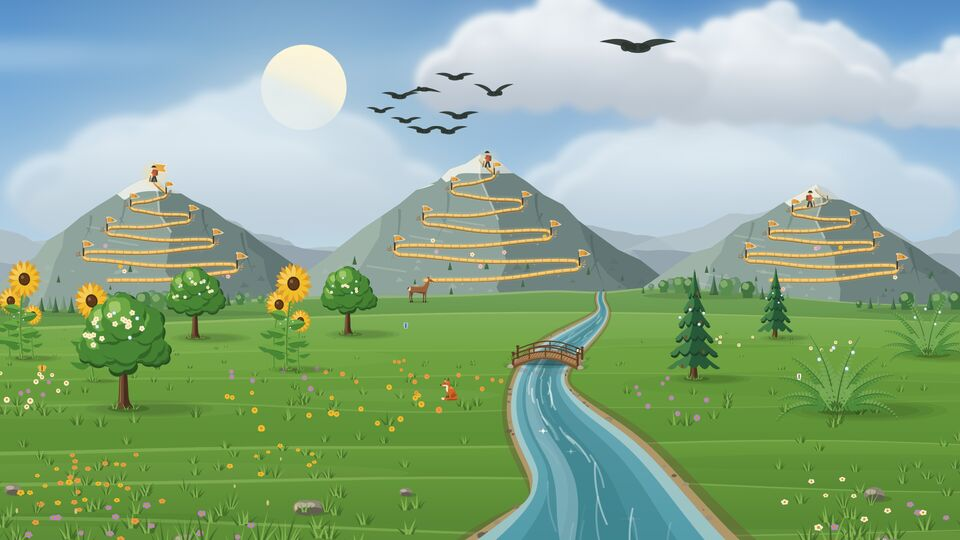
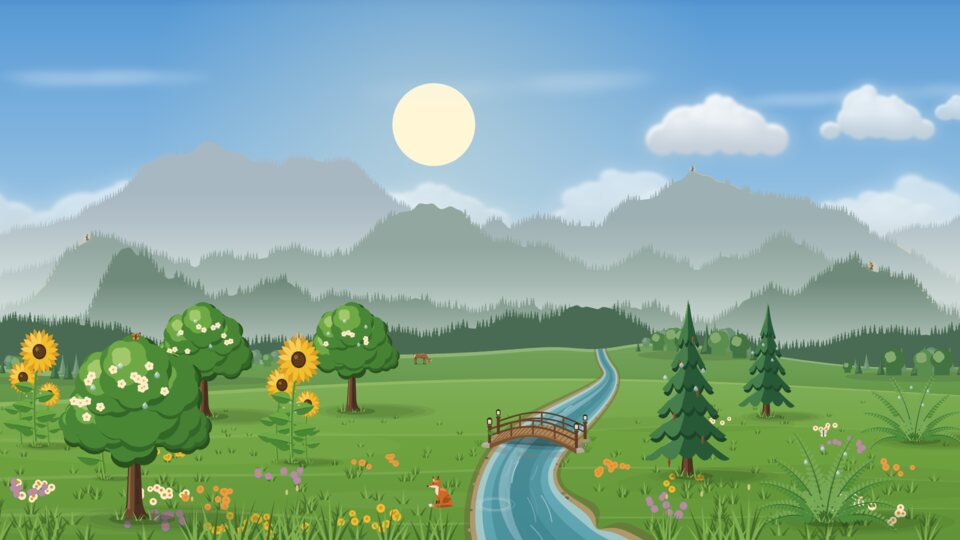
Show Grove's ridge mountains in the valley picture

diff --git a/grove/guide/index.html b/grove/guide/index.html
@@ -312,7 +312,7 @@
        srcset="../../images/valley-960.jpg 960w, ../../images/valley.jpg 1920w"
        sizes="(min-width: 42rem) 40rem, 100vw"
        width="960" height="540"
-       alt="A valley drawn by Grove: three mountains with lit trails, flowering trees and sunflowers in a green meadow, and a river under a wooden bridge.">
+       alt="A valley drawn by Grove: misty forested ridges with climbers on their trails, flowering trees, sunflowers and pines in a meadow of wildflowers, and a river under a wooden bridge.">
 
 <p>Grove is a habit tracker for Android. Each habit you build is a plant by a river, and each habit you let go of is a trail up a mountain. These pages explain what you see in the app and why.</p>
 <p>To see it in motion, watch <a href="https://www.youtube.com/watch?v=k_VwG3wD_qk">Grove in two minutes</a> on YouTube.</p>

diff --git a/index.html b/index.html
@@ -217,7 +217,7 @@
        srcset="images/valley-960.jpg 960w, images/valley.jpg 1920w"
        sizes="100vw"
        width="1920" height="1080"
-       alt="A valley drawn by Grove: three mountains with lit trails, flowering trees and sunflowers in a green meadow, and a river under a wooden bridge.">
+       alt="A valley drawn by Grove: misty forested ridges with climbers on their trails, flowering trees, sunflowers and pines in a meadow of wildflowers, and a river under a wooden bridge.">
 
   <section class="app column" aria-labelledby="grove">
     <div class="app-head">
